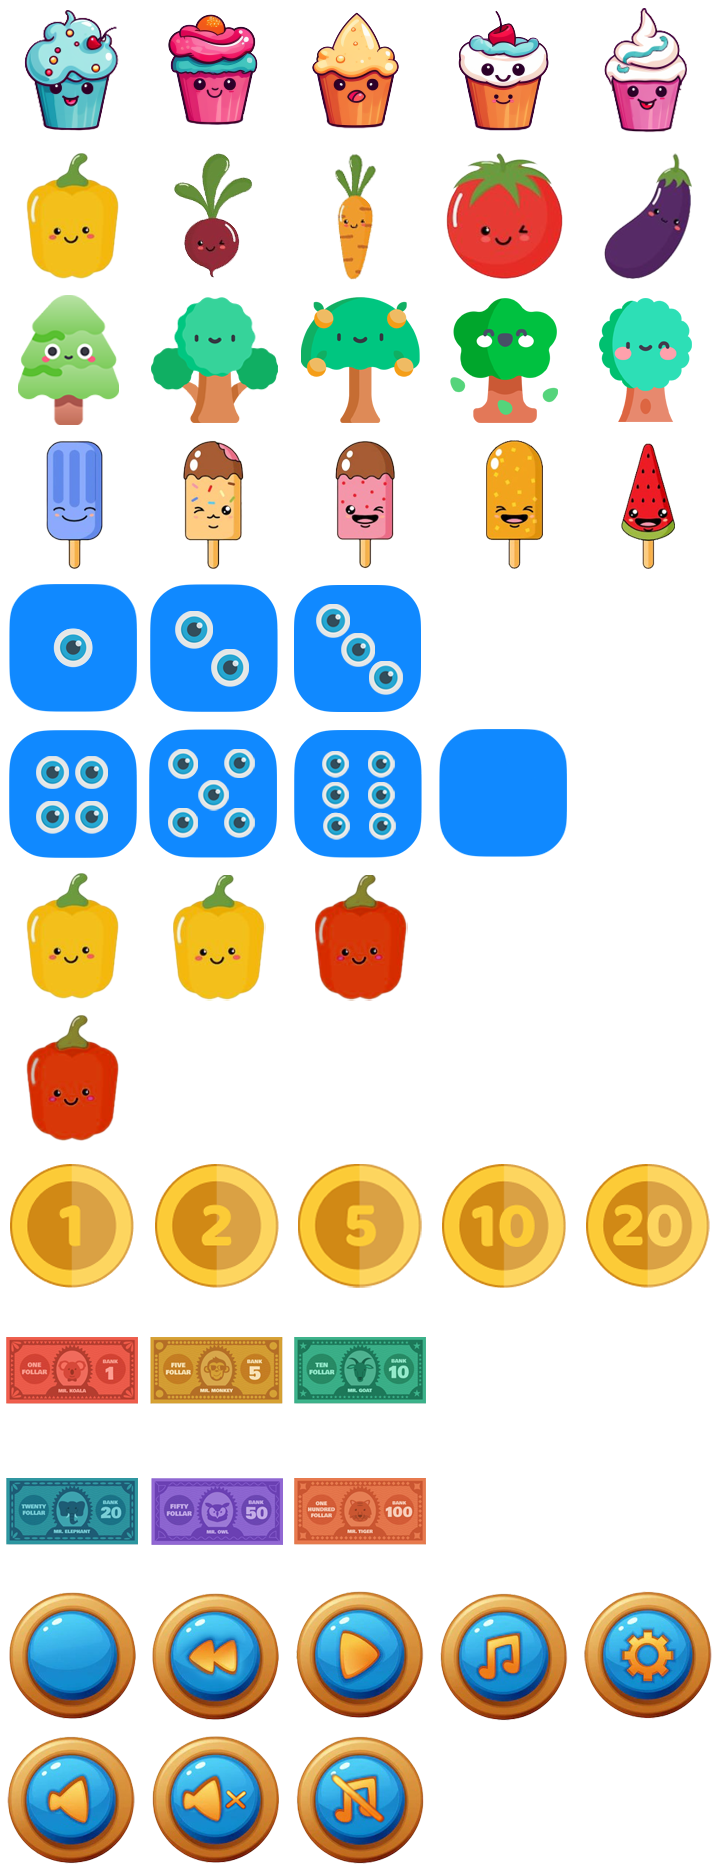
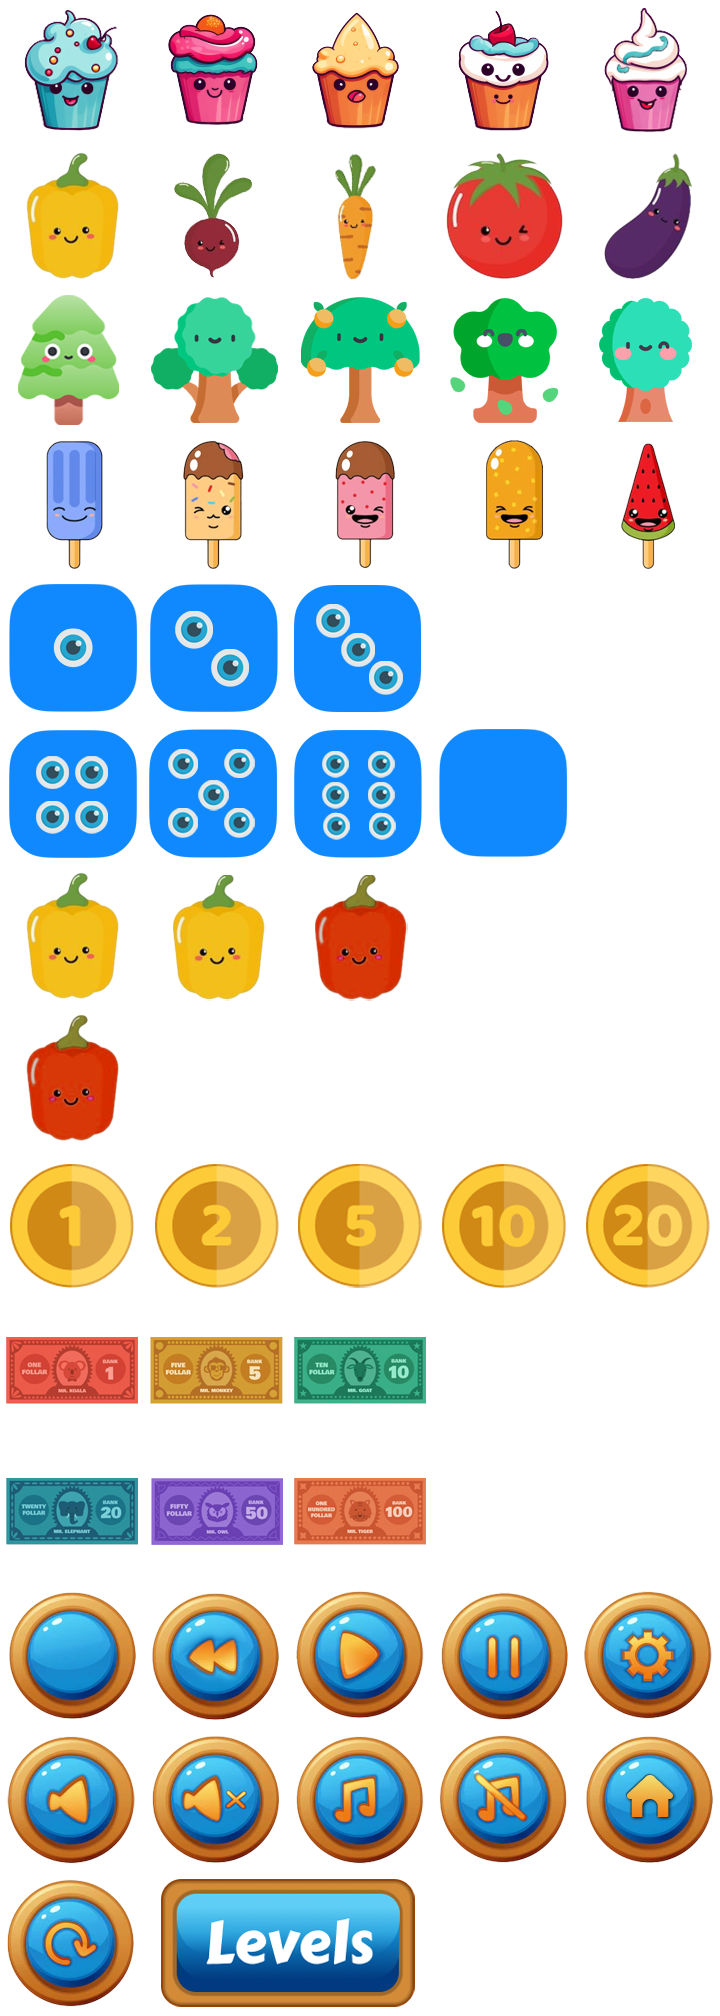
Modified sprite images.

diff --git a/src/components/LevelsScreen/Board/Pause.js b/src/components/LevelsScreen/Board/Pause.js
@@ -1,14 +1,17 @@
 import React from 'react';
-import getStyle from '../../../helpers/getStyle';
+import Button from '../../Button';
 
 const Pause = (context) => {
 	const { actions, state: { pause }} = context;
 
 	return (
-		<button
-			className="gameButton"
-			style={ getStyle({ ...context, data: 'pause' }) }
-			onClick={ () => { actions.setPause(!pause); } }
+		<Button { ...{
+			...context,
+			data: {
+				name: 'pause',
+				onClick: () => actions.setPause(!pause),
+			},
+		} }
 		/>);
 };
 

diff --git a/src/core/config.js b/src/core/config.js
@@ -144,7 +144,7 @@ const config = {
 			},
 		},
 		{
-			name: 'musicOn',
+			name: 'pause',
 			index: 58,
 			variance: {
 				width: 1,
@@ -176,8 +176,16 @@ const config = {
 			},
 		},
 		{
-			name: 'musicOff',
+			name: 'musicOn',
 			index: 62,
+			variance: {
+				width: 1,
+				height: 1,
+			},
+		},
+		{
+			name: 'musicOff',
+			index: 63,
 			variance: {
 				width: 1,
 				height: 1,
